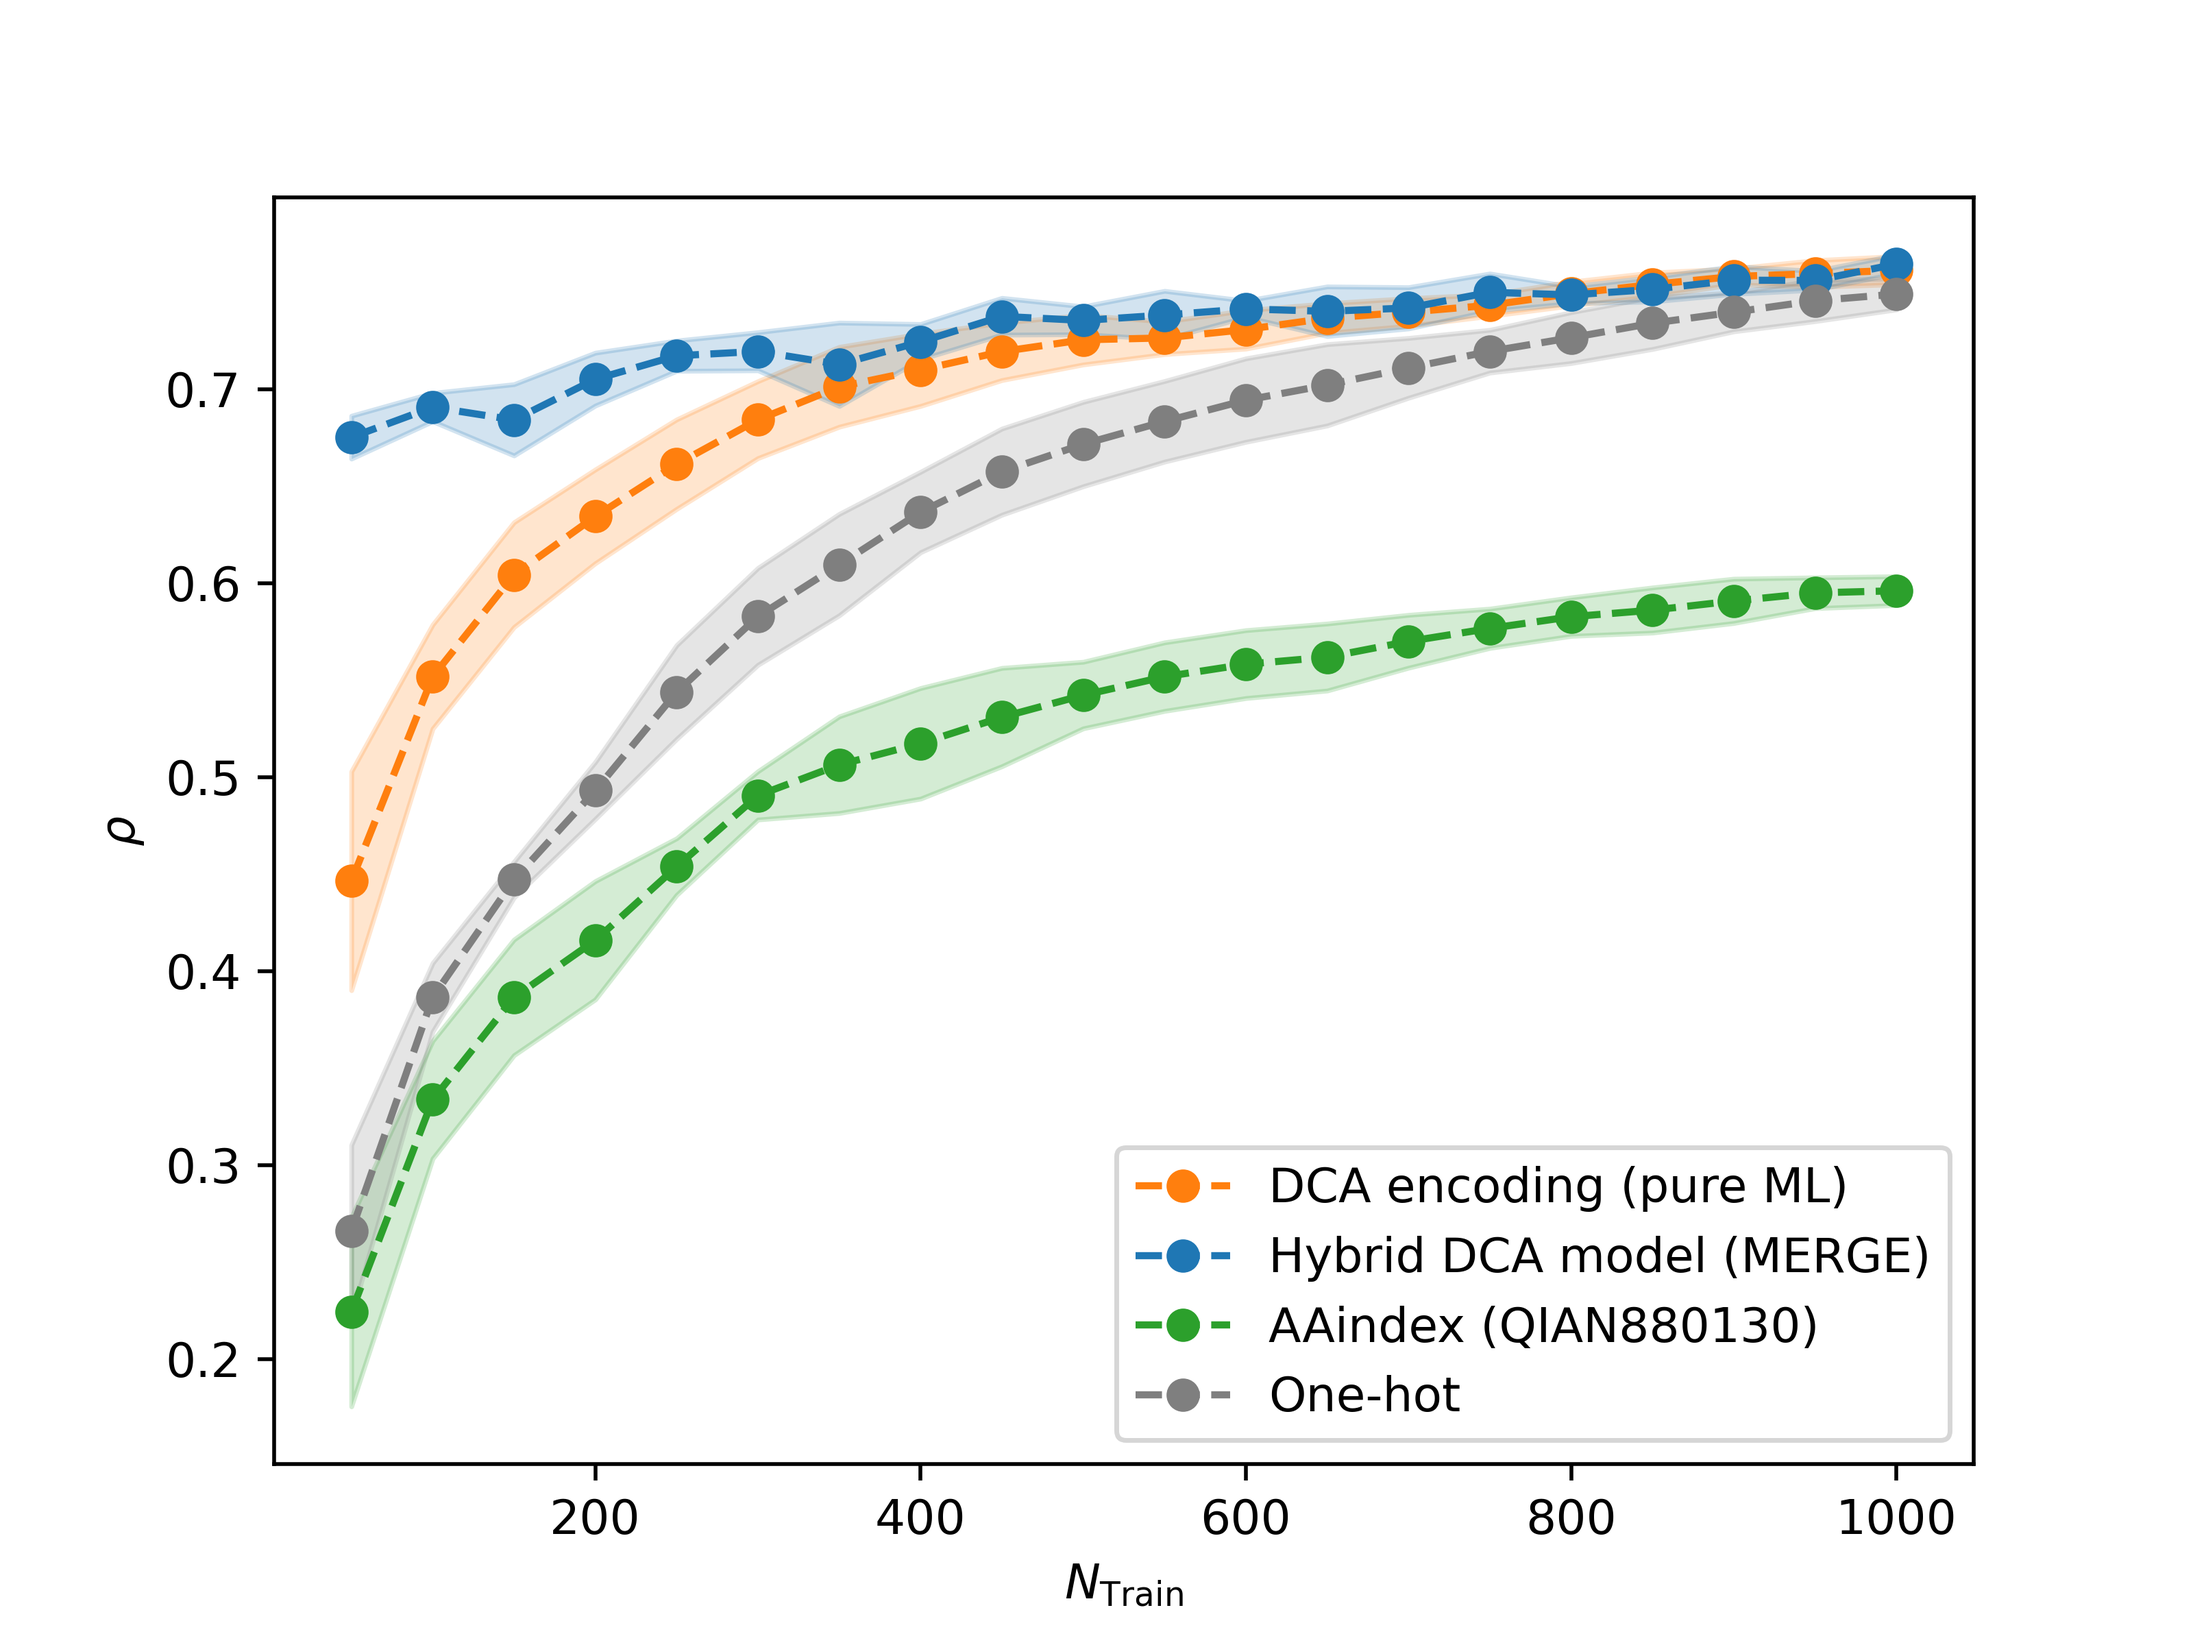
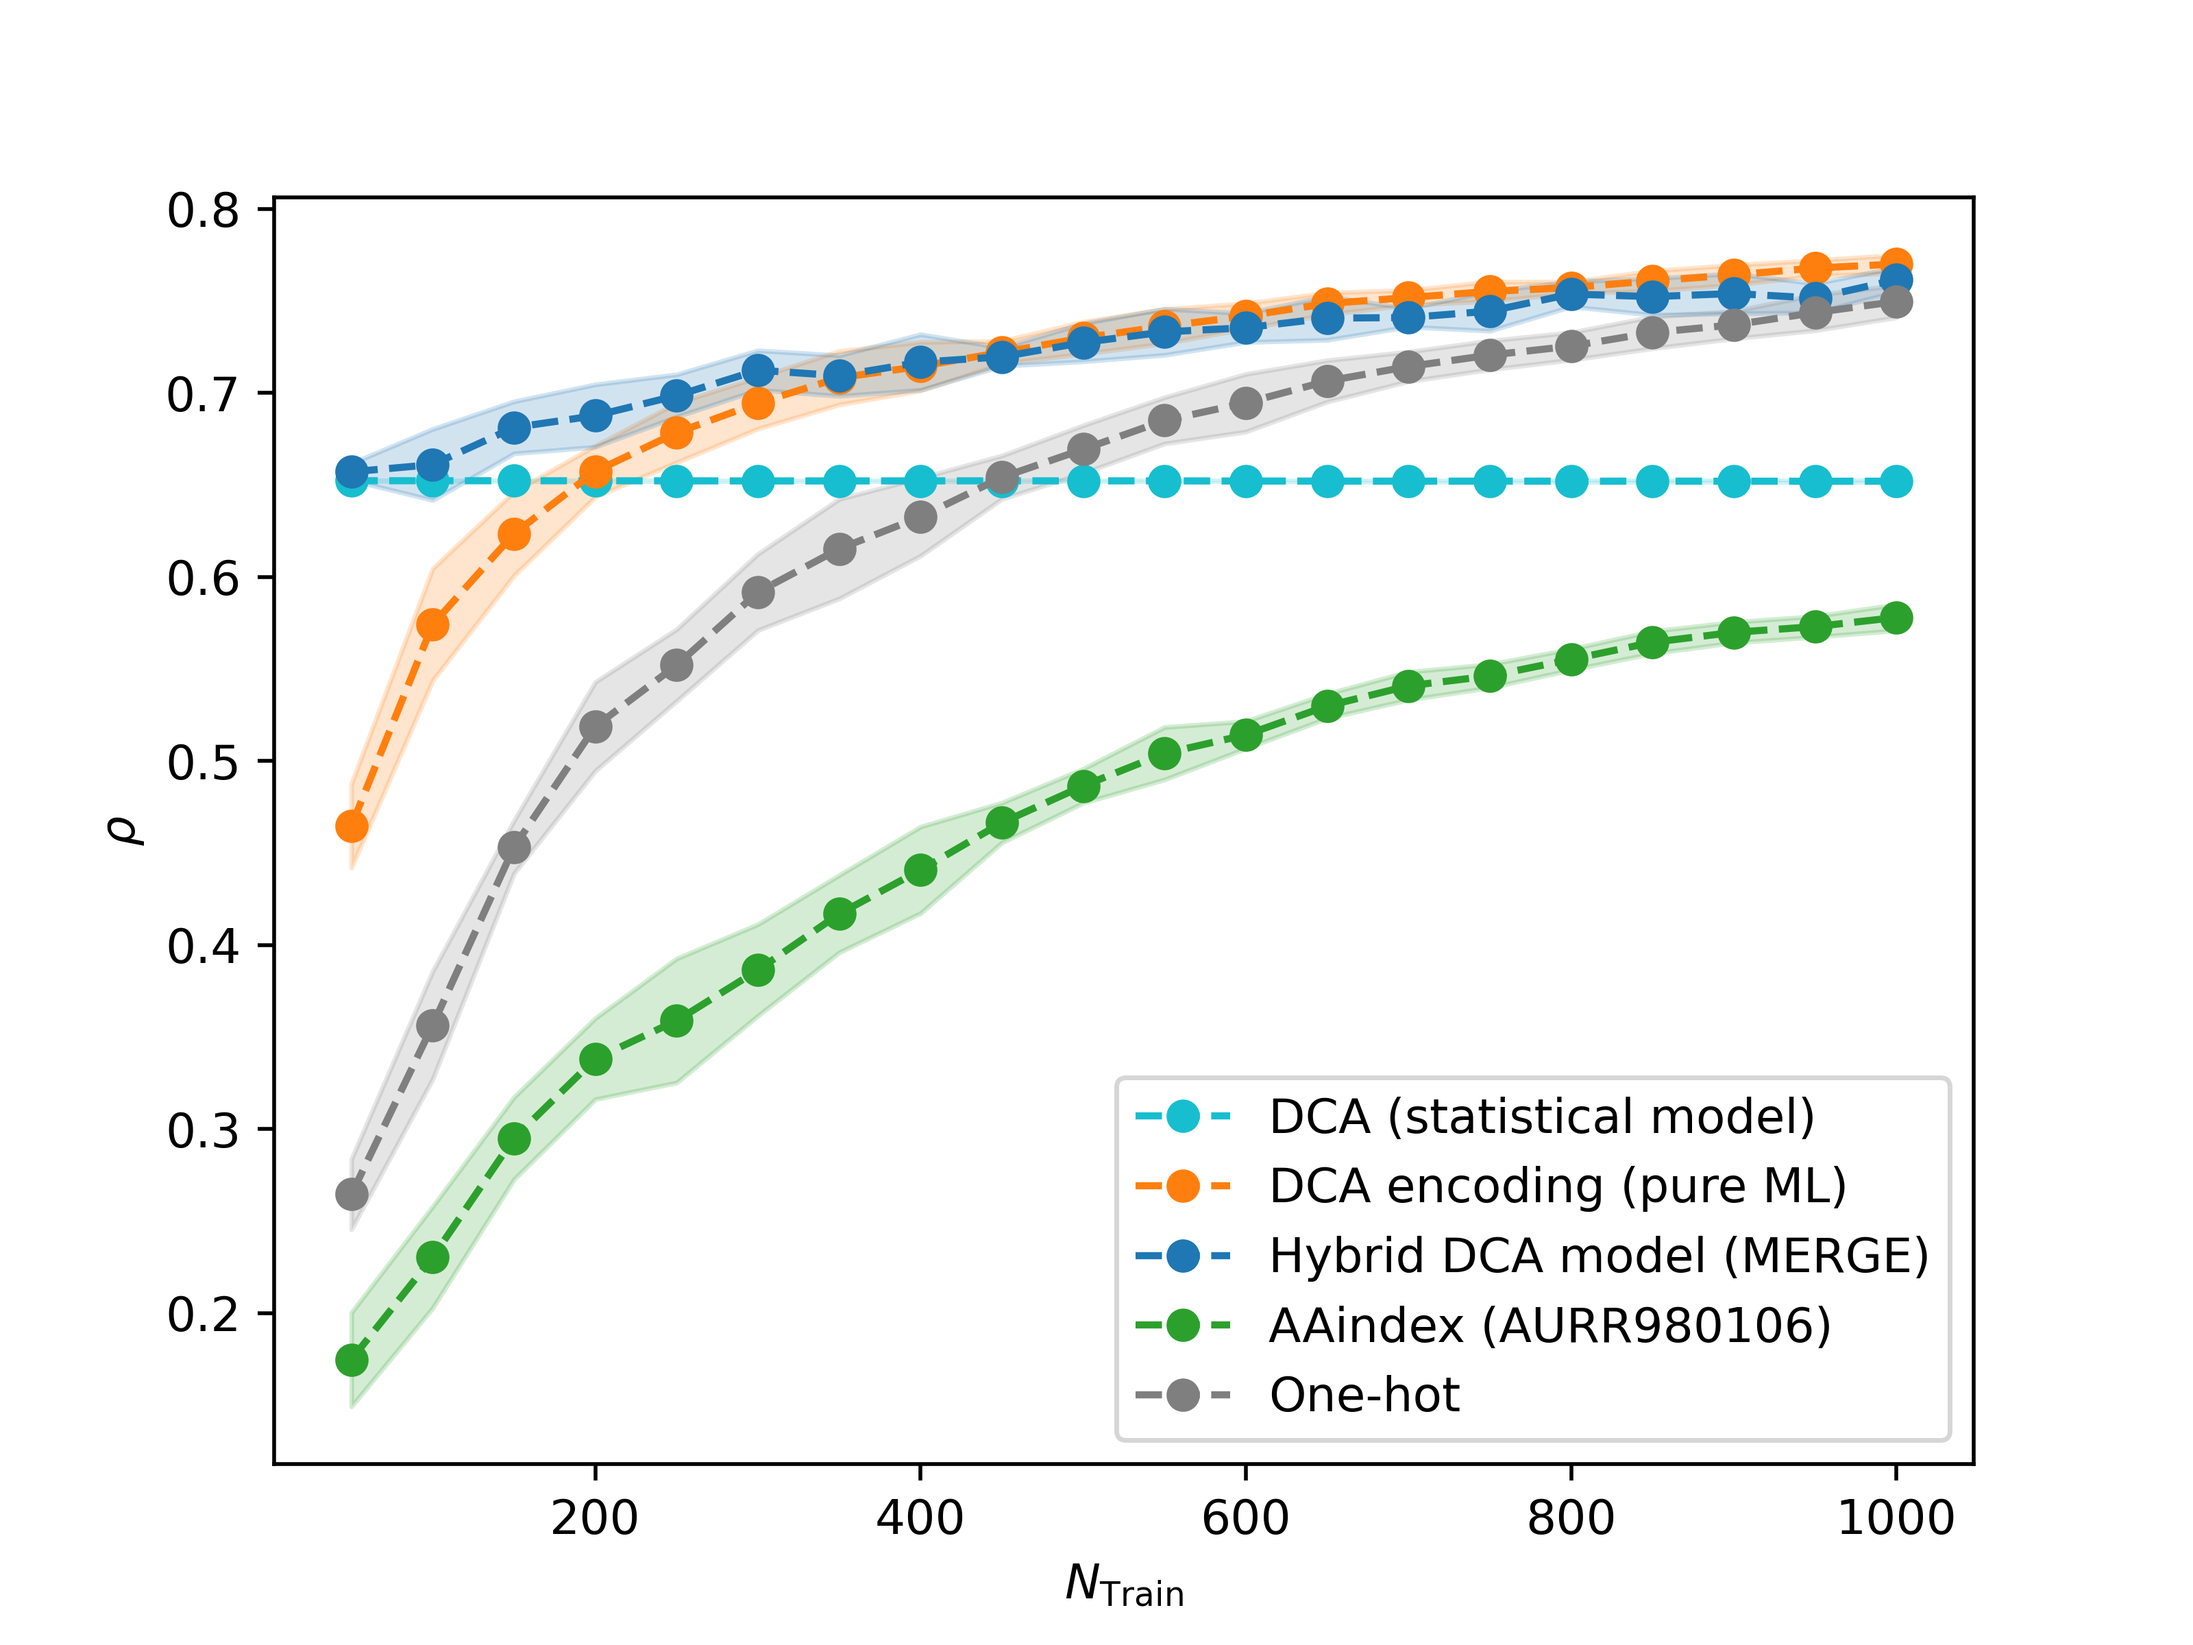
Added statistical DCA model low N performance (plot)

diff --git a/scripts/Encoding_low_N/api_encoding_train_test.py b/scripts/Encoding_low_N/api_encoding_train_test.py
@@ -24,6 +24,7 @@ from pypef.dca.hybrid_model import DCAHybridModel, remove_gap_pos, get_delta_e_s
 from pypef.dca.plmc_encoding import PLMC
 from pypef.dca.gremlin_inference import GREMLIN
 
+
 use_gremlin = True  # if False uses plmc (requires plmc-generated .params file)
 
 n_aaindices_to_test = 10  # all would be 566 AAindex indices, only testing 10 here for shorter run time
@@ -256,17 +257,19 @@ x_onehot = OneHotEncoding(sequences).collect_encoded_sequences()
 
 assert len(x_dca) == len(x_aaindex_no_fft) == len(x_onehot) == len(fitnesses) == len(variants) == len(sequences)
 
-all_mean_performances_dca, all_mean_performances_hybrid, \
-    all_mean_performances_aaidx, all_mean_performances_onehot = [], [], [], []
-all_stddevs_dca, all_stddevs_hybrid, all_stddevs_aaidx, all_stddevs_onehot = [], [], [], []
+all_mean_performances_dca_statistical, all_mean_performances_dca_ml, all_mean_performances_hybrid, \
+    all_mean_performances_aaidx, all_mean_performances_onehot = [], [], [], [], []
+all_stddevs_dca_statistical, all_stddevs_dca_ml, all_stddevs_hybrid, all_stddevs_aaidx, all_stddevs_onehot = [], [], [], [], []
 low_n_train = np.arange(50, 1001, 50)
 print(f'\n(4/4) Testing low N performance (with N_train = {list(low_n_train)})...\n' + "=" * 50)
 for n_train in tqdm(low_n_train):
-    performances_dca, performances_hybrid, performances_aaidx, performances_onehot = [], [], [], []
+    performances_dca_statistical, performances_dca_ml, performances_hybrid, performances_aaidx, performances_onehot = [], [], [], [], []
     for rnd_state in [42, 213, 573, 917, 823]:
         x_dca_train, x_dca_test, y_train, y_test = train_test_split(
             x_dca, fitnesses, train_size=n_train, random_state=rnd_state)
-        performances_dca.append(get_regressor_performances(
+        # Delta E is just the sum of the encoding (embedding) relative to the WT sum
+        performances_dca_statistical.append(spearmanr(y_test, np.sum(x_dca_test, axis=1) - np.sum(x_wt))[0])
+        performances_dca_ml.append(get_regressor_performances(
             x_dca_train, x_dca_test, y_train, y_test, regressor='ridge')[4])  # [4] defines spearmanr correlation
 
         hybrid_model = DCAHybridModel(x_train=x_dca_train, y_train=y_train, x_wt=x_wt)
@@ -284,9 +287,11 @@ for n_train in tqdm(low_n_train):
             x_onehot, fitnesses, train_size=n_train, random_state=rnd_state)
         performances_onehot.append(get_regressor_performances(
             x_onehot_train, x_onehot_test, y_train, y_test, regressor='ridge')[4])
-
-    all_mean_performances_dca.append(np.mean(performances_dca))
-    all_stddevs_dca.append(np.std(performances_dca, ddof=1))
+        
+    all_mean_performances_dca_statistical.append(np.mean(performances_dca_statistical))
+    all_stddevs_dca_statistical.append(np.std(performances_dca_statistical, ddof=1))
+    all_mean_performances_dca_ml.append(np.mean(performances_dca_ml))
+    all_stddevs_dca_ml.append(np.std(performances_dca_ml, ddof=1))
     all_mean_performances_hybrid.append(np.mean(performances_hybrid))
     all_stddevs_hybrid.append(np.std(performances_hybrid, ddof=1))
     all_mean_performances_aaidx.append(np.mean(performances_aaidx))
@@ -295,10 +300,15 @@ for n_train in tqdm(low_n_train):
     all_stddevs_onehot.append(np.std(performances_onehot, ddof=1))
 
 # Plotting all the achieved "low-N" performances
-plt.plot(low_n_train, all_mean_performances_dca, 'o--', color='tab:orange', label='DCA encoding (pure ML)')
+plt.plot(low_n_train, all_mean_performances_dca_statistical, 'o--', color='tab:cyan', label='DCA (statistical model)')
 plt.fill_between(low_n_train,
-                 np.array(all_mean_performances_dca) - np.array(all_stddevs_dca),
-                 np.array(all_mean_performances_dca) + np.array(all_stddevs_dca),
+                 np.array(all_mean_performances_dca_statistical) - np.array(all_stddevs_dca_statistical),
+                 np.array(all_mean_performances_dca_statistical) + np.array(all_stddevs_dca_statistical),
+                 color='tab:cyan', alpha=0.2)
+plt.plot(low_n_train, all_mean_performances_dca_ml, 'o--', color='tab:orange', label='DCA encoding (pure ML)')
+plt.fill_between(low_n_train,
+                 np.array(all_mean_performances_dca_ml) - np.array(all_stddevs_dca_ml),
+                 np.array(all_mean_performances_dca_ml) + np.array(all_stddevs_dca_ml),
                  color='tab:orange', alpha=0.2)
 plt.plot(low_n_train, all_mean_performances_hybrid, 'o--', color='tab:blue', label='Hybrid DCA model (MERGE)')
 plt.fill_between(low_n_train,
